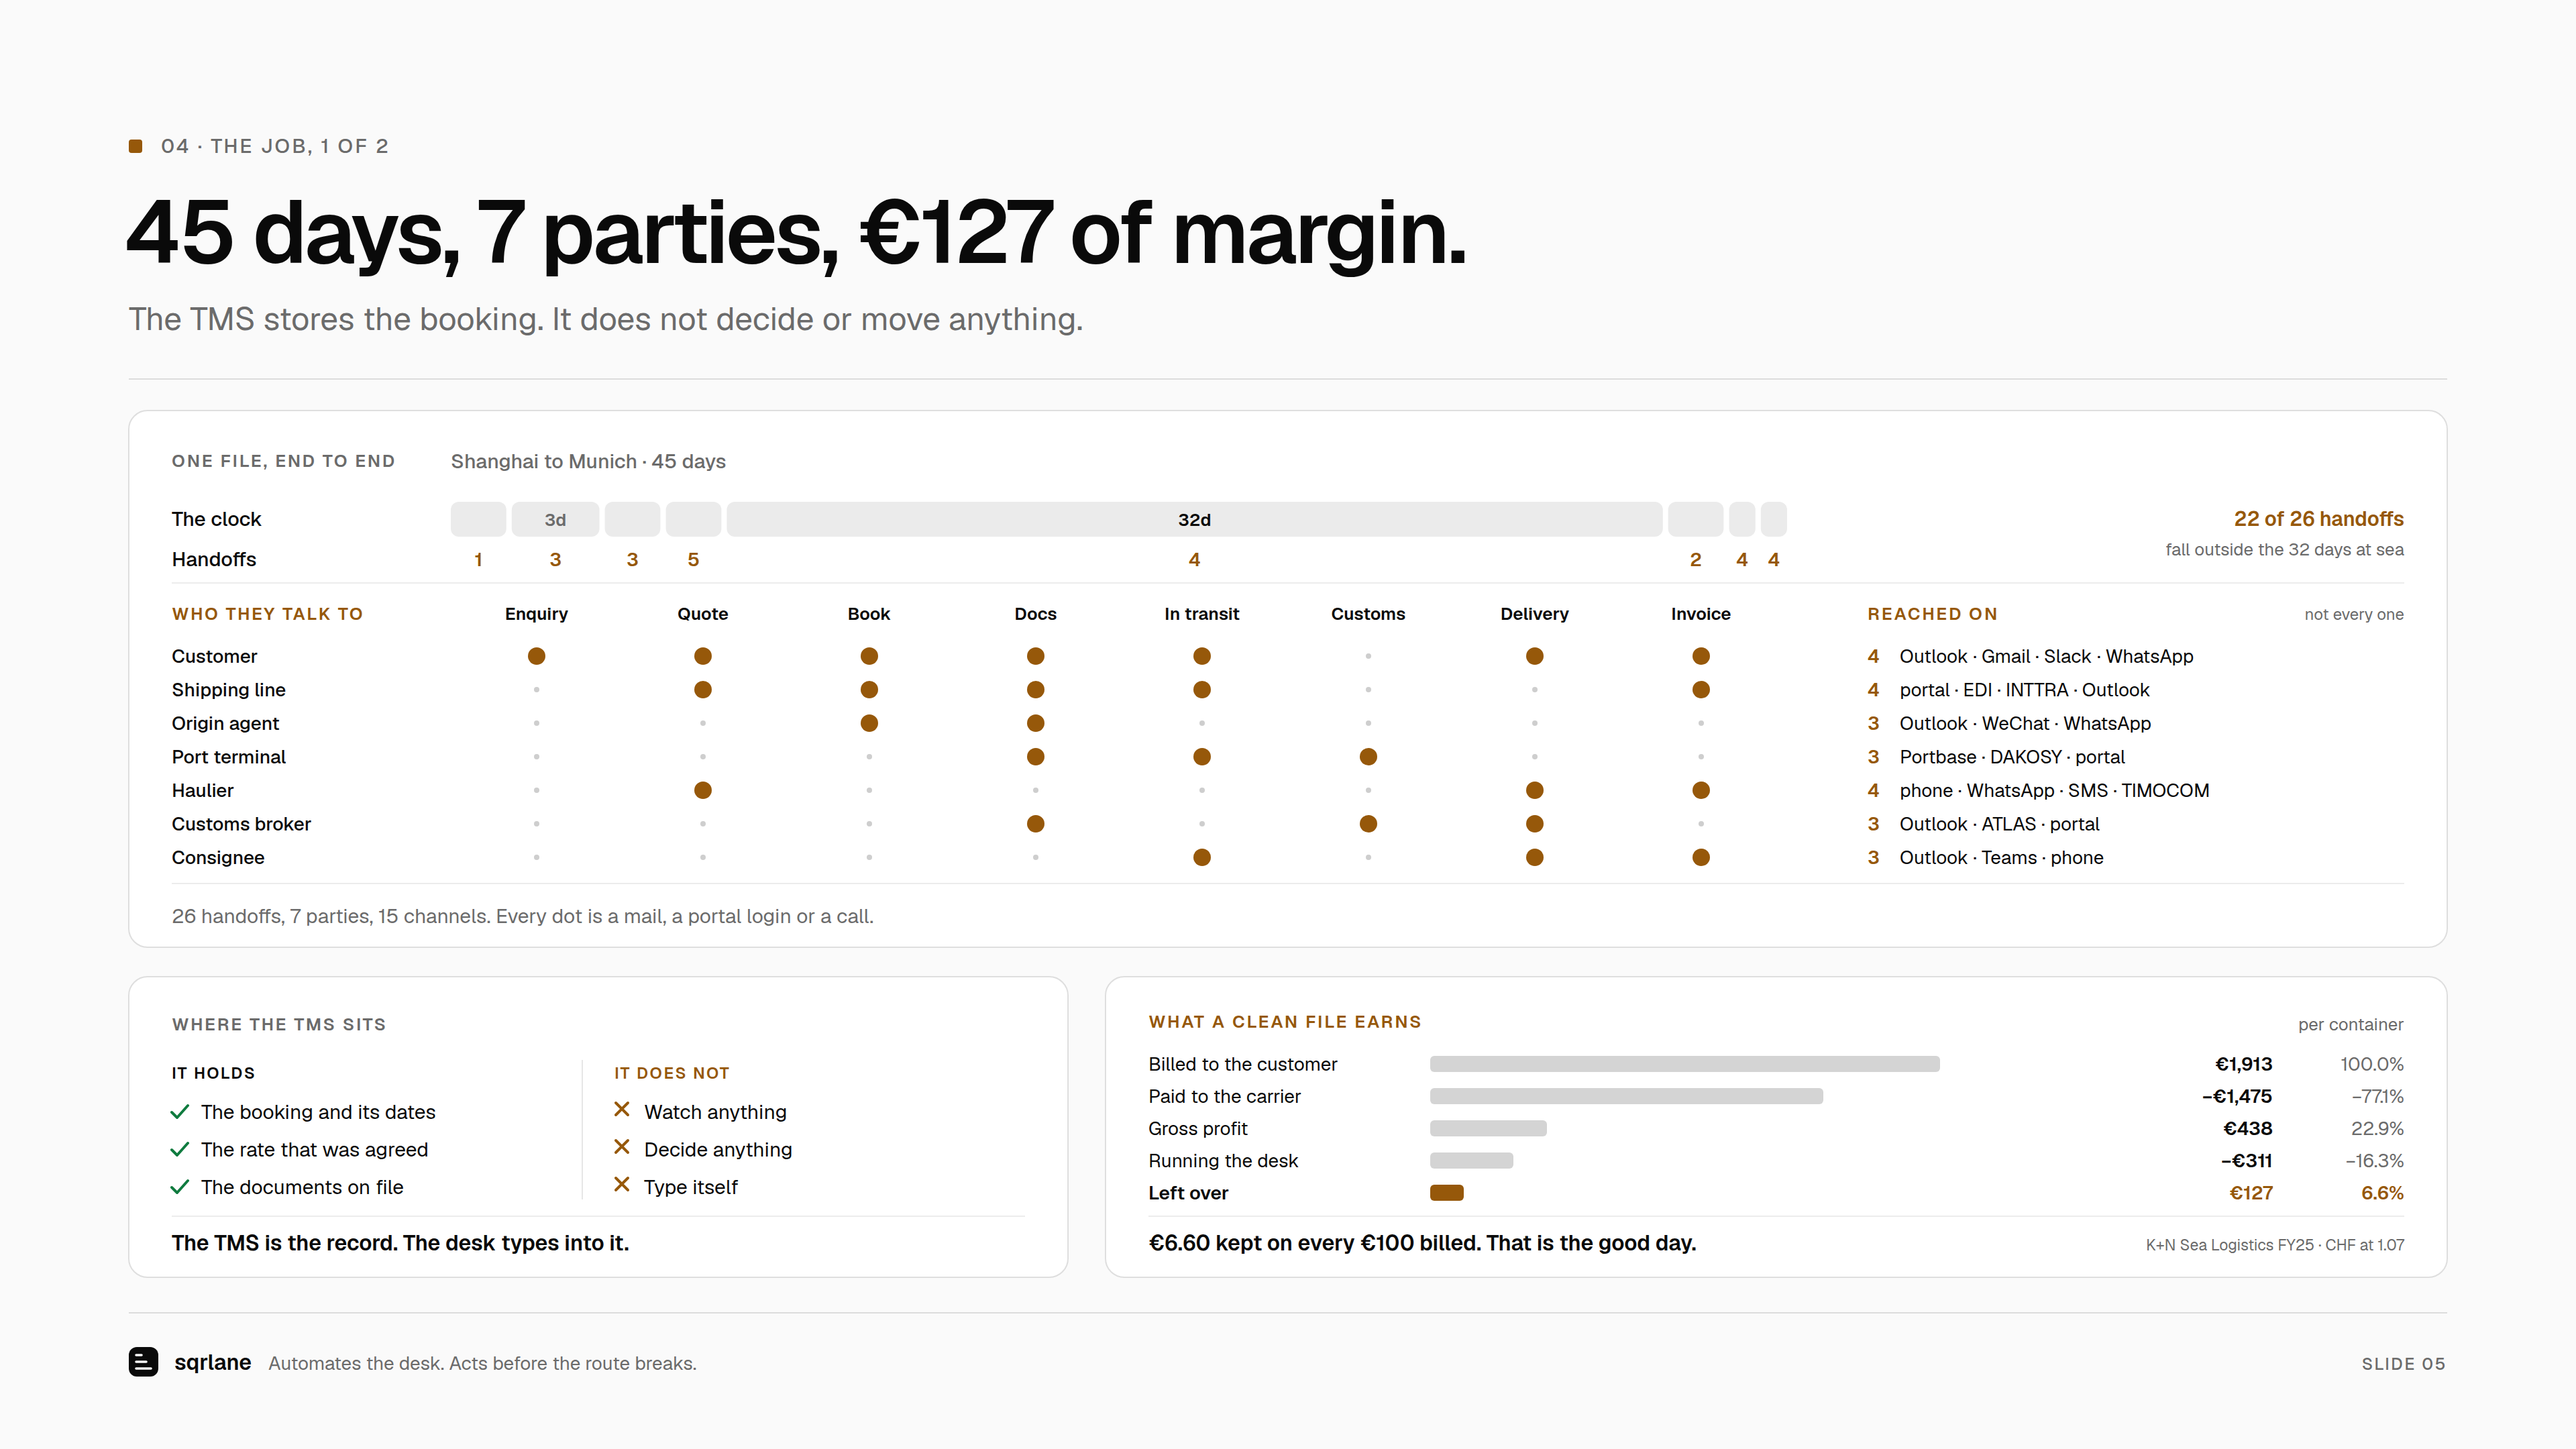
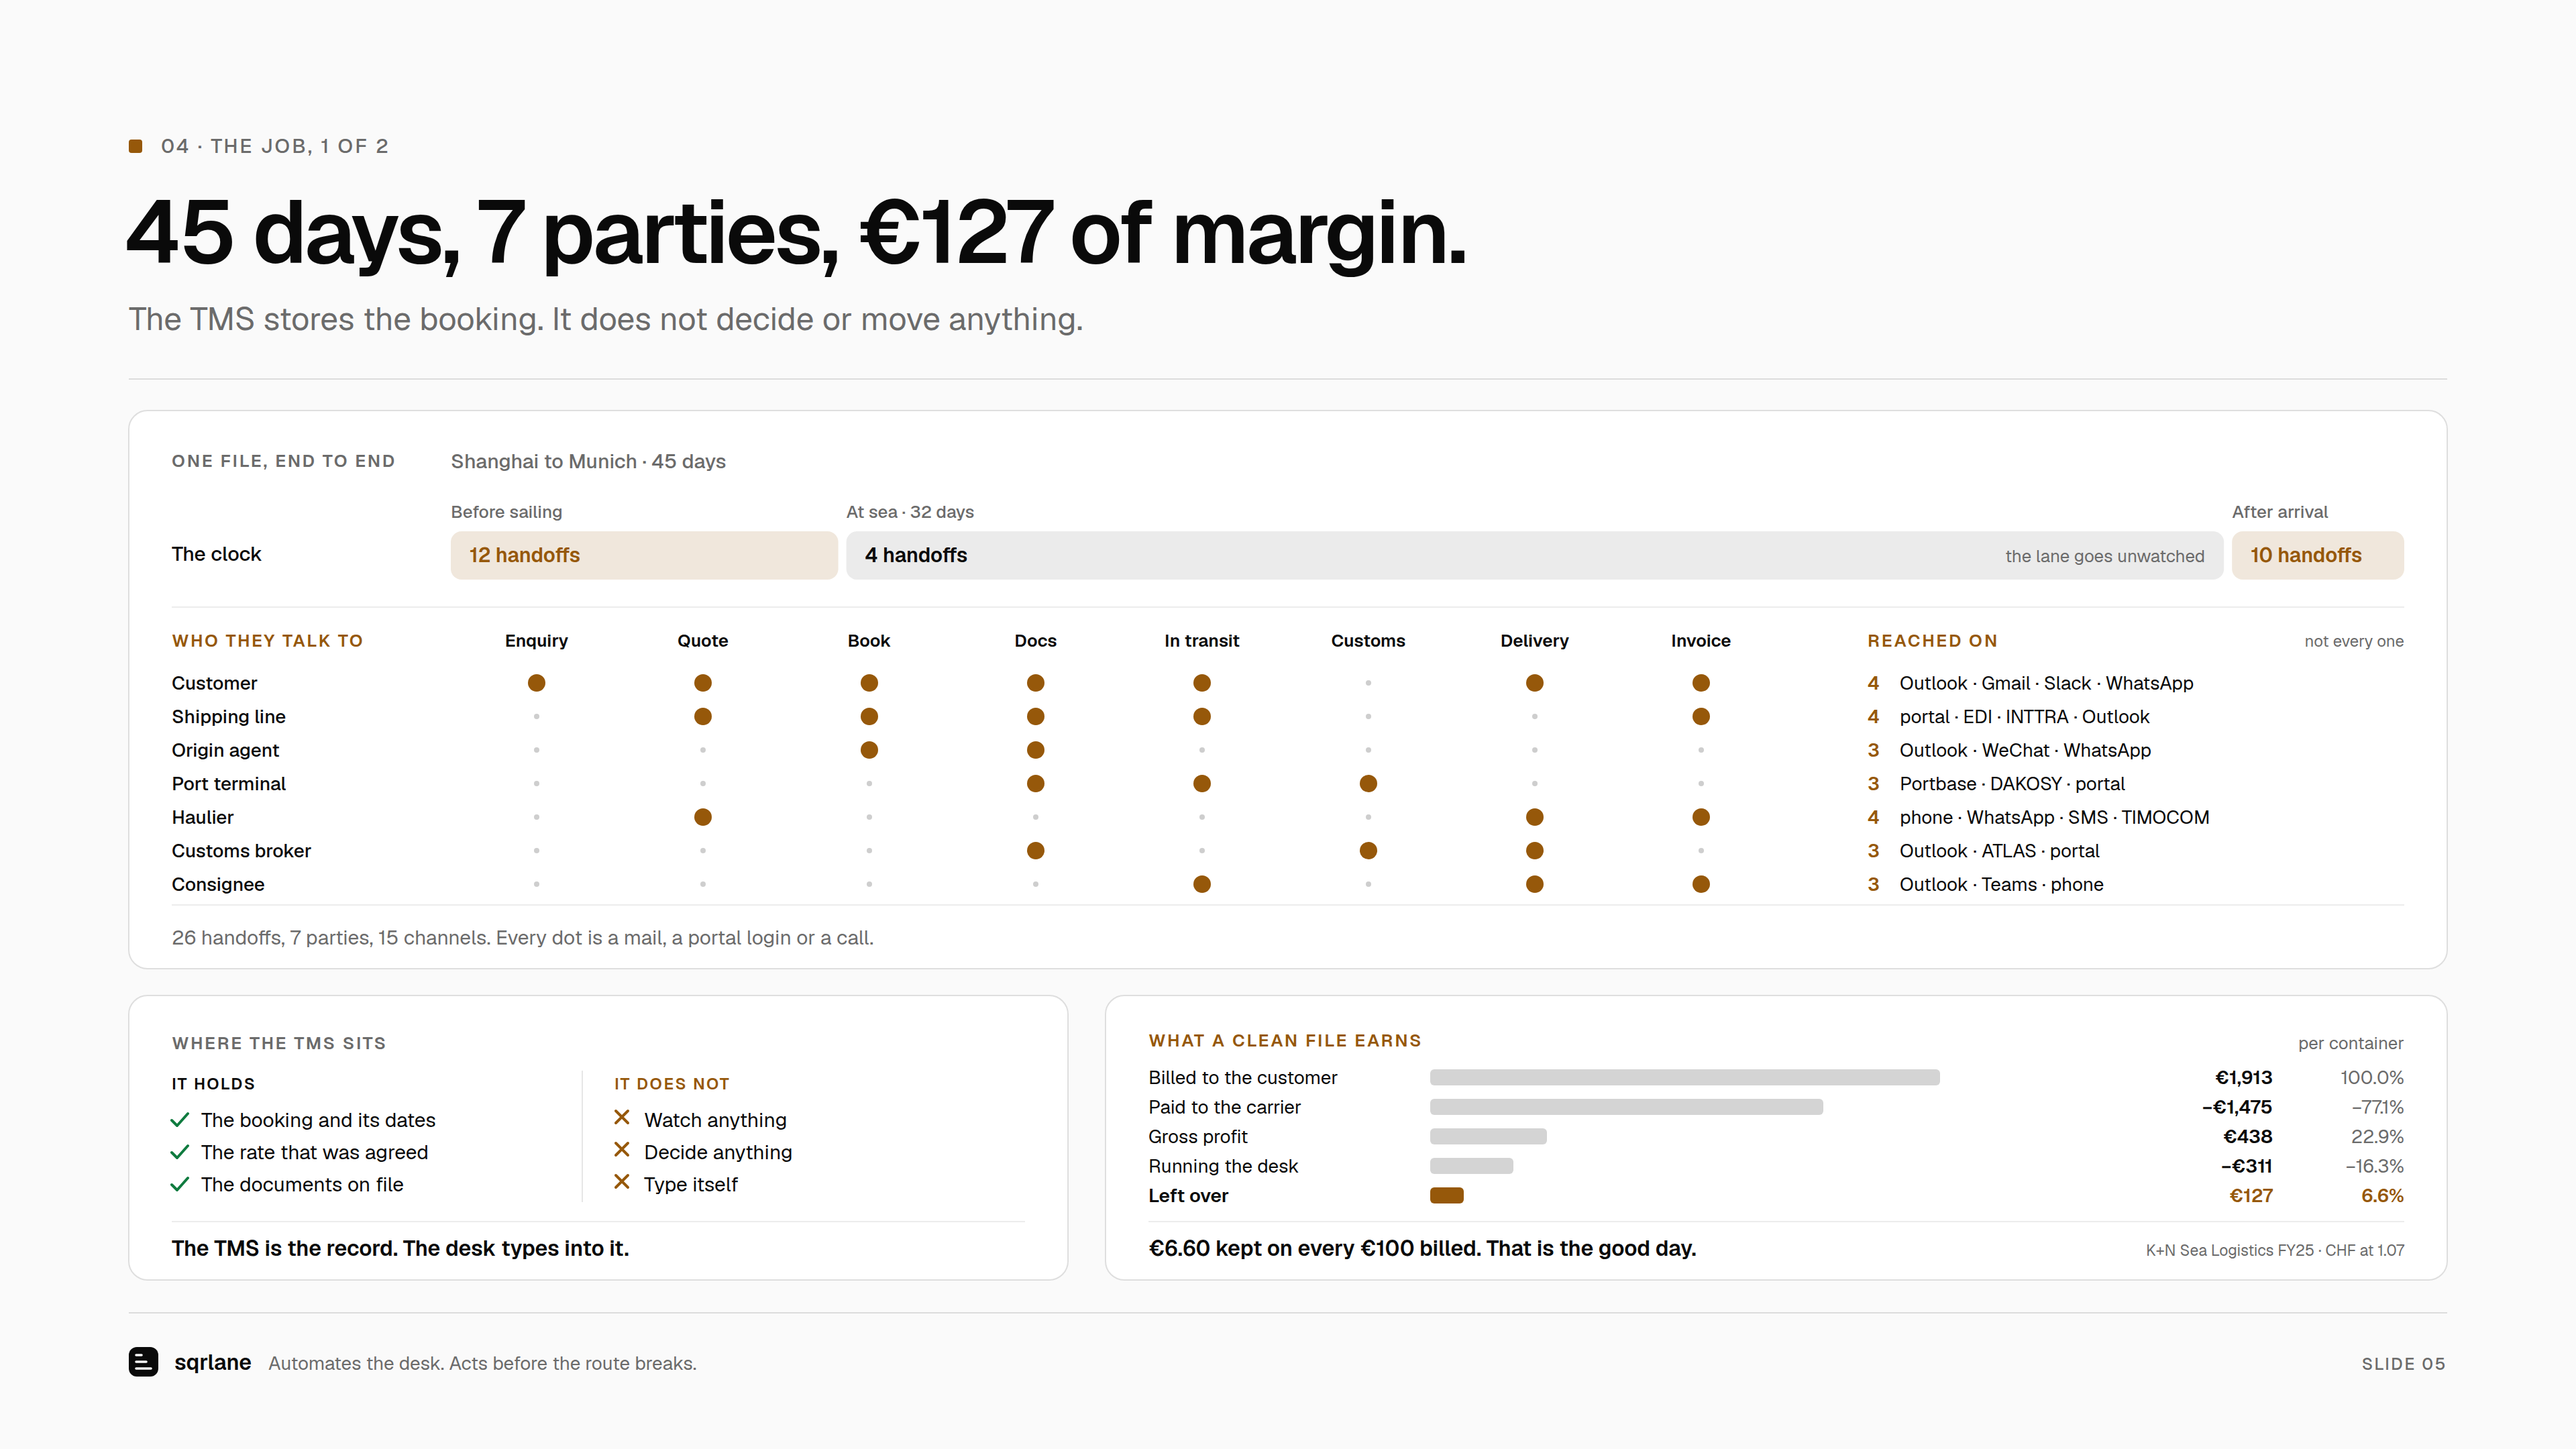
Deck v2 slide 05: the clock as three phases with handoffs inside
Claude-Session: https://claude.ai/code/session_01HbtpjYfXPKy7DdRHDFrJUP

diff --git a/deck/v2/build_05.py b/deck/v2/build_05.py
@@ -8,7 +8,7 @@ s.header("04 · THE JOB, 1 OF 2", "45 days, 7 parties, €127 of margin.",
          "The TMS stores the booking. It does not decide or move anything.")
 
 # ---- one file, end to end
-TY, TH = 306, 400
+TY, TH = 306, 416
 s.g("one-file")
 s.card(M, TY, W - 2 * M, TH)
 x0 = M + 32
@@ -16,28 +16,27 @@ STAGES = ["Enquiry", "Quote", "Book", "Docs", "In transit", "Customs", "Delivery
 CX = [400 + i * 124 for i in range(8)]
 s.T(x0, TY + 42, "ONE FILE, END TO END", 13, 600, MUT, ls=1.4)
 s.T(CX[0] - 64, TY + 43, "Shanghai to Munich · 45 days", 15, 500, MUT)
-s.T(x0, TY + 86, "The clock", 15, 500)
-days = [1.9, 3, 1.9, 1.9, 32, 1.9, 0.9, 0.9]
-BX0, BX1, GAPB = CX[0] - 64, CX[-1] + 64, 4
-unit = (BX1 - BX0 - GAPB * (len(days) - 1)) / sum(days)
+# The clock, in three phases. Handoffs per phase are summed from the grid below;
+# widths follow the days (45 in all, 32 at sea).
+s.T(x0, TY + 112, "The clock", 15, 500)
+phases = [("Before sailing", 9, 12, True), ("At sea · 32 days", 32, 4, False), ("After arrival", 4, 10, True)]
+assert sum(p[2] for p in phases) == 26 and sum(p[1] for p in phases) == 45
+BX0, BX1, GAPB = CX[0] - 64, W - M - 32, 6
+unit = (BX1 - BX0 - GAPB * 2) / 45
 bx = BX0
 s.g("clock")
-PER_STAGE = [1, 3, 3, 5, 4, 2, 4, 4]   # handoffs per stage, summed from the grid below
-for d, n in zip(days, PER_STAGE):
+for name, d, n, busy in phases:
     w = d * unit
-    big = d == 32
-    s.R(round(bx, 1), TY + 68, round(w, 1), 26, TRACK, 6)
-    if d in (3, 32):
-        s.T(round(bx + w / 2, 1), TY + 86, f"{d:g}d", 13, 600, INK if big else MUT, anchor="middle")
-    s.T(round(bx + w / 2, 1), TY + 116, str(n), 14, 600, AMB, anchor="middle")
+    s.T(round(bx, 1), TY + 80, name, 13, 500, MUT)
+    s.R(round(bx, 1), TY + 90, round(w, 1), 36, AMB if busy else TRACK, 8, ' fill-opacity="0.14"' if busy else "")
+    s.T(round(bx + 14, 1), TY + 113, f"{n} handoffs", 15, 600, AMB if busy else INK)
+    if not busy:
+        s.T(round(bx + w - 14, 1), TY + 113, "the lane goes unwatched", 13, 400, MUT, anchor="end")
     bx += w + GAPB
-s.T(x0, TY + 116, "Handoffs", 15, 500)
-s.T(W - M - 32, TY + 86, "22 of 26 handoffs", 15, 600, AMB, anchor="end")
-s.T(W - M - 32, TY + 108, "fall outside the 32 days at sea", 13, 400, MUT, anchor="end")
 s.end()
-s.rule(TY + 128, 0.08, x0, W - 2 * M - 64)
+s.rule(TY + 146, 0.08, x0, W - 2 * M - 64)
 
-HY = TY + 156
+HY = TY + 176
 s.T(x0, HY, "WHO THEY TALK TO", 13, 600, AMB, ls=1.4)
 for c, st in zip(CX, STAGES):
     s.T(c, HY, st, 13, 600, INK, anchor="middle")
@@ -71,7 +70,7 @@ s.T(x0, TY + TH - 18, "26 handoffs, 7 parties, 15 channels. Every dot is a mail,
 s.end()
 
 # ---- bottom: what the TMS does, what a clean file earns
-BY, BH = 728, 224
+BY, BH = 742, 212
 LW = 700
 s.g("where-the-tms-sits")
 s.card(M, BY, LW, BH)
@@ -80,17 +79,17 @@ cols = [("IT HOLDS", ["The booking and its dates", "The rate that was agreed", "
         ("IT DOES NOT", ["Watch anything", "Decide anything", "Type itself"], False)]
 for i, (head, items, ok) in enumerate(cols):
     cx = x0 + i * 330
-    s.T(cx, BY + 76, head, 12, 600, INK if ok else AMB, ls=1.2)
+    s.T(cx, BY + 70, head, 12, 600, INK if ok else AMB, ls=1.2)
     for k, it in enumerate(items):
-        iy = BY + 106 + k * 28
+        iy = BY + 98 + k * 24
         if ok:
             s.raw(f'<path d="M{cx} {iy - 5} l4 4 l8 -9" stroke="{GREEN}" stroke-width="2" fill="none" stroke-linecap="round" stroke-linejoin="round"/>')
         else:
             s.raw(f'<path d="M{cx + 1} {iy - 12} l9 9 M{cx + 10} {iy - 12} l-9 9" stroke="{AMB}" stroke-width="2" fill="none" stroke-linecap="round"/>')
         s.T(cx + 22, iy, it, 15, 400)
-s.line(x0 + 306, BY + 62, x0 + 306, BY + 166, INK, 0.1, 1)
-s.rule(BY + 178, 0.08, x0, LW - 64)
-s.T(x0, BY + 204, "The TMS is the record. The desk types into it.", 16, 600)
+s.line(x0 + 306, BY + 56, x0 + 306, BY + 154, INK, 0.1, 1)
+s.rule(BY + 168, 0.08, x0, LW - 64)
+s.T(x0, BY + 194, "The TMS is the record. The desk types into it.", 16, 600)
 s.end()
 
 RX0, RW = M + LW + 28, W - 2 * M - LW - 28
@@ -106,14 +105,14 @@ rows = [("Billed to the customer", "€1,913", "100.0%", 1913, False, False),
         ("Left over", "€127", "6.6%", 127, True, True)]
 BAR0, BARW = ex + 210, 380
 for k, (lab, val, pct, v, bold, hi) in enumerate(rows):
-    ry = BY + 70 + k * 24
+    ry = BY + 66 + k * 22
     s.T(ex, ry, lab, 14, 600 if bold else 400)
     s.R(BAR0, ry - 11, max(4, round(BARW * v / 1913)), 12, AMB if hi else MID, 3)
     s.T(RX0 + RW - 130, ry, val, 14, 600, AMB if hi else INK, anchor="end")
     s.T(RX0 + RW - 32, ry, pct, 14, 600 if hi else 400, AMB if hi else MUT, anchor="end")
-s.rule(BY + 178, 0.08, ex, RW - 64)
-s.T(ex, BY + 204, "€6.60 kept on every €100 billed. That is the good day.", 16, 600)
-s.T(RX0 + RW - 32, BY + 204, "K+N Sea Logistics FY25 · CHF at 1.07", 11.5, 400, MUT, anchor="end")
+s.rule(BY + 168, 0.08, ex, RW - 64)
+s.T(ex, BY + 194, "€6.60 kept on every €100 billed. That is the good day.", 16, 600)
+s.T(RX0 + RW - 32, BY + 194, "K+N Sea Logistics FY25 · CHF at 1.07", 11.5, 400, MUT, anchor="end")
 s.end()
 
 s.footer(5)
